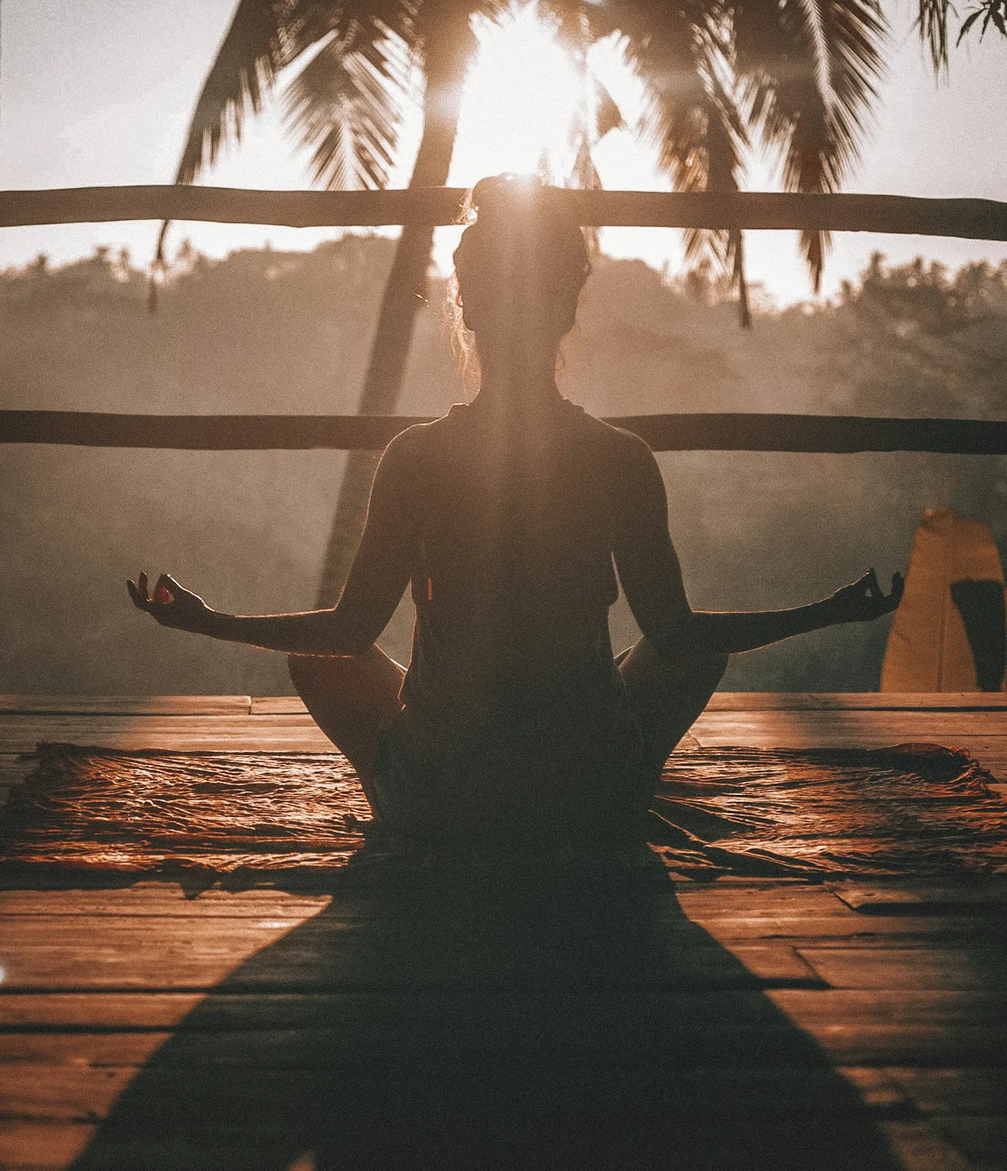
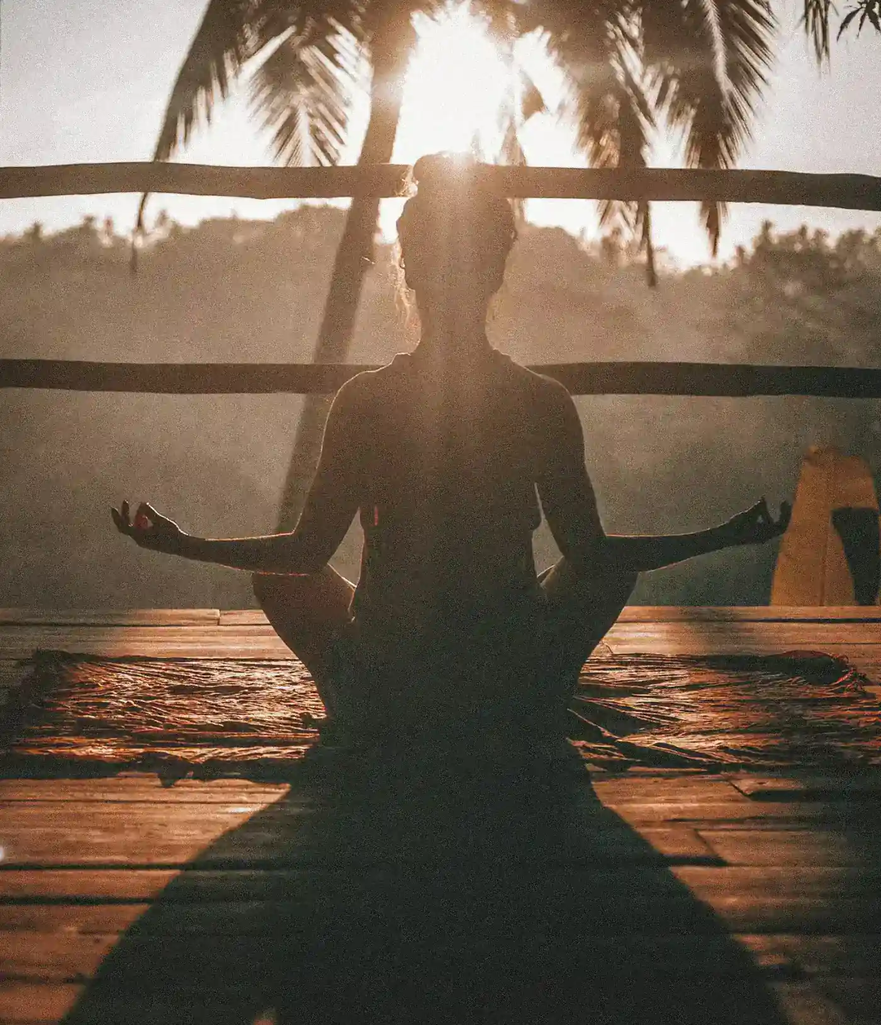
Fix blog: compress images <200KB, add routes, fix sitemap dates
- Recompressed blog-longevity.webp from 783KB to 141KB
- Replaced clinical/procedural hero images with calm editorial alternatives
- Updated all hero image credits in blog-image-credits.md
- Added all 13 new blog post routes to App.tsx
- Fixed sitemap with real lastmod dates (2026-11-16 for new posts)
- Fixed duplicate paragraphs keys in blog posts
- All 82 pages now pre-render correctly with BlogPosting schema
- No banned terms present
- All images under 200KB

diff --git a/Oxford-Wellness-Website/client/src/App.tsx b/Oxford-Wellness-Website/client/src/App.tsx
@@ -34,6 +34,19 @@ import BlogWeightGainPeri from "@/pages/blog/weight-gain-perimenopause";
 import BlogChoosingClinic from "@/pages/blog/choosing-aesthetics-clinic-oxford";
 import BlogOver50 from "@/pages/blog/aesthetic-treatments-over-50";
 import BlogSciencePark from "@/pages/blog/new-oxford-science-park-clinic";
+import BlogPerimenopauseSymptoms from "@/pages/blog/perimenopause-symptoms-oxford";
+import BlogHRTConsultation from "@/pages/blog/hrt-consultation-what-to-expect";
+import BlogIntimateHealth from "@/pages/blog/intimate-health-changes-menopause";
+import BlogWomensHealthCheck from "@/pages/blog/womens-health-check-oxford";
+import BlogLongevityMedicine from "@/pages/blog/longevity-medicine-for-women";
+import BlogJawSlimming from "@/pages/blog/jaw-slimming-treatment-oxford";
+import BlogExcessiveSweating from "@/pages/blog/excessive-sweating-treatment-oxford";
+import BlogChemicalPeels from "@/pages/blog/chemical-peels-oxford";
+import BlogLumeccaIPL from "@/pages/blog/lumecca-ipl-oxford";
+import BlogFormaSkinTightening from "@/pages/blog/forma-skin-tightening-oxford";
+import BlogInModeFX from "@/pages/blog/inmode-fx-body-contouring-oxford";
+import BlogAntiWrinkleInjections from "@/pages/blog/anti-wrinkle-injections-oxford";
+import BlogPostpartumRecovery from "@/pages/blog/postpartum-recovery-oxford";
 import AntiWrinkle from "@/pages/treatments/anti-wrinkle";
 import DermalFillers from "@/pages/treatments/dermal-fillers";
 import LipFillers from "@/pages/treatments/lip-fillers";
@@ -126,6 +139,19 @@ function Router() {
       <Route path="/blog/choosing-aesthetics-clinic-oxford" component={BlogChoosingClinic} />
       <Route path="/blog/aesthetic-treatments-over-50" component={BlogOver50} />
       <Route path="/blog/new-oxford-science-park-clinic" component={BlogSciencePark} />
+      <Route path="/blog/perimenopause-symptoms-oxford" component={BlogPerimenopauseSymptoms} />
+      <Route path="/blog/hrt-consultation-what-to-expect" component={BlogHRTConsultation} />
+      <Route path="/blog/intimate-health-changes-menopause" component={BlogIntimateHealth} />
+      <Route path="/blog/womens-health-check-oxford" component={BlogWomensHealthCheck} />
+      <Route path="/blog/longevity-medicine-for-women" component={BlogLongevityMedicine} />
+      <Route path="/blog/jaw-slimming-treatment-oxford" component={BlogJawSlimming} />
+      <Route path="/blog/excessive-sweating-treatment-oxford" component={BlogExcessiveSweating} />
+      <Route path="/blog/chemical-peels-oxford" component={BlogChemicalPeels} />
+      <Route path="/blog/lumecca-ipl-oxford" component={BlogLumeccaIPL} />
+      <Route path="/blog/forma-skin-tightening-oxford" component={BlogFormaSkinTightening} />
+      <Route path="/blog/inmode-fx-body-contouring-oxford" component={BlogInModeFX} />
+      <Route path="/blog/anti-wrinkle-injections-oxford" component={BlogAntiWrinkleInjections} />
+      <Route path="/blog/postpartum-recovery-oxford" component={BlogPostpartumRecovery} />
       <Route path="/ai-consultation" component={AIPreConsult} />
       <Route path="/call" component={CallPage} />
       <Route path="/book" component={Book} />

diff --git a/Oxford-Wellness-Website/server/seo-static.ts b/Oxford-Wellness-Website/server/seo-static.ts
@@ -63,7 +63,7 @@ const ALL_SITEMAP_PAGES = [
   { path: "/treatments/lumecca-ipl-oxford", priority: "0.9", changefreq: "monthly", lastmod: "2024-10-15" },
   { path: "/treatments/filler-dissolving-oxford", priority: "0.9", changefreq: "monthly", lastmod: "2024-10-15" },
   { path: "/treatments/jaw-slimming-teeth-grinding-oxford", priority: "0.9", changefreq: "monthly", lastmod: "2024-10-15" },
-  { path: "/blog", priority: "0.9", changefreq: "weekly", lastmod: "2024-11-10" },
+  { path: "/blog", priority: "0.9", changefreq: "weekly", lastmod: "2026-11-16" },
   { path: "/blog/menopause-skin-changes", priority: "0.7", changefreq: "monthly", lastmod: "2024-08-10" },
   { path: "/blog/profhilo-vs-dermal-fillers", priority: "0.7", changefreq: "monthly", lastmod: "2024-08-10" },
   { path: "/blog/lip-filler-natural-results", priority: "0.7", changefreq: "monthly", lastmod: "2024-08-10" },
@@ -72,6 +72,19 @@ const ALL_SITEMAP_PAGES = [
   { path: "/blog/choosing-aesthetics-clinic-oxford", priority: "0.7", changefreq: "monthly", lastmod: "2024-08-10" },
   { path: "/blog/aesthetic-treatments-over-50", priority: "0.7", changefreq: "monthly", lastmod: "2024-08-10" },
   { path: "/blog/new-oxford-science-park-clinic", priority: "0.8", changefreq: "monthly", lastmod: "2024-09-15" },
+  { path: "/blog/perimenopause-symptoms-oxford", priority: "0.7", changefreq: "monthly", lastmod: "2026-11-16" },
+  { path: "/blog/hrt-consultation-what-to-expect", priority: "0.7", changefreq: "monthly", lastmod: "2026-11-16" },
+  { path: "/blog/intimate-health-changes-menopause", priority: "0.7", changefreq: "monthly", lastmod: "2026-11-16" },
+  { path: "/blog/womens-health-check-oxford", priority: "0.7", changefreq: "monthly", lastmod: "2026-11-16" },
+  { path: "/blog/longevity-medicine-for-women", priority: "0.7", changefreq: "monthly", lastmod: "2026-11-16" },
+  { path: "/blog/jaw-slimming-treatment-oxford", priority: "0.7", changefreq: "monthly", lastmod: "2026-11-16" },
+  { path: "/blog/excessive-sweating-treatment-oxford", priority: "0.7", changefreq: "monthly", lastmod: "2026-11-16" },
+  { path: "/blog/chemical-peels-oxford", priority: "0.7", changefreq: "monthly", lastmod: "2026-11-16" },
+  { path: "/blog/lumecca-ipl-oxford", priority: "0.7", changefreq: "monthly", lastmod: "2026-11-16" },
+  { path: "/blog/forma-skin-tightening-oxford", priority: "0.7", changefreq: "monthly", lastmod: "2026-11-16" },
+  { path: "/blog/inmode-fx-body-contouring-oxford", priority: "0.7", changefreq: "monthly", lastmod: "2026-11-16" },
+  { path: "/blog/anti-wrinkle-injections-oxford", priority: "0.7", changefreq: "monthly", lastmod: "2026-11-16" },
+  { path: "/blog/postpartum-recovery-oxford", priority: "0.7", changefreq: "monthly", lastmod: "2026-11-16" },
   { path: "/privacy-policy", priority: "0.3", changefreq: "yearly", lastmod: "2024-06-01" },
   { path: "/cookie-policy", priority: "0.3", changefreq: "yearly", lastmod: "2024-06-01" },
   { path: "/terms-and-conditions", priority: "0.3", changefreq: "yearly", lastmod: "2024-06-01" },

diff --git a/Oxford-Wellness-Website/client/src/pages/blog/postpartum-recovery-oxford.tsx b/Oxford-Wellness-Website/client/src/pages/blog/postpartum-recovery-oxford.tsx
@@ -88,9 +88,6 @@ const data: BlogPostData = {
         "Scar treatments (laser, micro-needling, or silicone-based therapies) to improve the appearance of caesarean or other surgical scars",
         "Vaginal rejuvenation treatments (radiofrequency or hyaluronic acid) for intimate concerns",
       ],
-      paragraphs: [
-        "These treatments are not a substitute for a healthy lifestyle, and they are not appropriate for everyone. But for women who are otherwise at a stable weight, who have completed their family, and who have specific concerns that affect their confidence, they can be helpful.",
-      ],
     },
     {
       heading: "Medical Weight Management After Pregnancy",
@@ -119,9 +116,6 @@ const data: BlogPostData = {
         "You have significant abdominal separation that is not improving with exercises",
         "You are distressed by the appearance of scars, loose skin, or other body changes",
         "You are struggling with your body confidence and it is affecting your mental health",
-      ],
-      paragraphs: [
-        "Do not wait. Do not assume symptoms will improve on their own. And do not accept dismissive reassurance that 'this is normal after having a baby' when you are in pain or distress.",
       ],
     },
     {

diff --git a/Oxford-Wellness-Website/client/src/pages/blog/chemical-peels-oxford.tsx b/Oxford-Wellness-Website/client/src/pages/blog/chemical-peels-oxford.tsx
@@ -41,9 +41,6 @@ const data: BlogPostData = {
         "Enlarged pores",
         "Early signs of photoageing",
       ],
-      paragraphs: [
-        "Peels do not treat deep wrinkles, skin laxity, or significant volume loss. For those concerns, other treatments such as dermal fillers, anti-wrinkle injections, or radiofrequency are more appropriate.",
-      ],
     },
     {
       heading: "Types of Chemical Peels",
@@ -107,9 +104,6 @@ const data: BlogPostData = {
         "Avoid harsh skincare, exfoliants, retinoids, and active ingredients until your clinician advises otherwise",
         "Avoid picking or pulling at peeling skin",
         "Avoid hot showers, saunas, swimming pools, and strenuous exercise for several days",
-      ],
-      paragraphs: [
-        "Your clinician will provide detailed aftercare instructions tailored to the peel you have had. Following these instructions carefully ensures the best result and minimises the risk of complications.",
       ],
     },
     {

diff --git a/Oxford-Wellness-Website/client/src/pages/blog/forma-skin-tightening-oxford.tsx b/Oxford-Wellness-Website/client/src/pages/blog/forma-skin-tightening-oxford.tsx
@@ -40,9 +40,6 @@ const data: BlogPostData = {
         "Fine lines and wrinkles caused by loss of skin structure",
         "Overall loss of skin firmness and tone",
       ],
-      paragraphs: [
-        "Forma is not suitable for severe skin laxity, which requires surgical intervention. It also does not address volume loss or deep wrinkles, which are better treated with dermal fillers or anti-wrinkle injections.",
-      ],
     },
     {
       heading: "How Forma Works",
@@ -98,9 +95,6 @@ const data: BlogPostData = {
         "Dermal fillers to restore volume in the mid-face and temples",
         "Morpheus8 for more intensive collagen remodelling and textural improvement",
         "IPL or chemical peels to address pigmentation and tone",
-      ],
-      paragraphs: [
-        "A layered treatment approach addresses multiple concerns—laxity, volume loss, lines, pigmentation—for a more complete result than any single treatment can achieve.",
       ],
     },
     {

diff --git a/Oxford-Wellness-Website/client/src/pages/blog/inmode-fx-body-contouring-oxford.tsx b/Oxford-Wellness-Website/client/src/pages/blog/inmode-fx-body-contouring-oxford.tsx
@@ -40,9 +40,6 @@ const data: BlogPostData = {
         "Cellulite and uneven skin texture",
         "General loss of firmness and tone",
       ],
-      paragraphs: [
-        "FX does not remove fat and is not a weight loss treatment. It tightens and firms the skin. If you have significant excess fat, other treatments such as medical weight management or body-contouring procedures may be more appropriate.",
-      ],
     },
     {
       heading: "How InMode FX Works",
@@ -98,9 +95,6 @@ const data: BlogPostData = {
         "Medical weight management to reduce fat before or during treatment",
         "Forma Plus for additional skin tightening and contouring",
         "Body Morpheus8 for deeper collagen remodelling in areas with more significant laxity or scarring",
-      ],
-      paragraphs: [
-        "A layered approach addressing both fat reduction and skin tightening often produces the best body contouring results.",
       ],
     },
     {

diff --git a/Oxford-Wellness-Website/client/src/pages/blog/lumecca-ipl-oxford.tsx b/Oxford-Wellness-Website/client/src/pages/blog/lumecca-ipl-oxford.tsx
@@ -41,9 +41,6 @@ const data: BlogPostData = {
         "Uneven skin tone",
         "Post-inflammatory pigmentation",
       ],
-      paragraphs: [
-        "IPL is less effective for deep wrinkles, skin laxity, or very dark pigmentation. It is not suitable for treating melasma, which can worsen with IPL.",
-      ],
     },
     {
       heading: "How Lumecca IPL Works",
@@ -89,9 +86,6 @@ const data: BlogPostData = {
         "Avoid hot showers, saunas, swimming pools, and strenuous exercise for 48 hours",
         "Keep the skin well moisturised with gentle, fragrance-free products",
         "Do not pick or scrub at darkened pigment—let it shed naturally",
-      ],
-      paragraphs: [
-        "Failing to protect your skin from the sun after IPL can result in new pigmentation and poor results.",
       ],
     },
     {

diff --git a/Oxford-Wellness-Website/client/src/pages/blog/excessive-sweating-treatment-oxford.tsx b/Oxford-Wellness-Website/client/src/pages/blog/excessive-sweating-treatment-oxford.tsx
@@ -67,10 +67,7 @@ const data: BlogPostData = {
         "You sweat excessively from your underarms even when cool and at rest",
         "Sweating interferes with your daily life, confidence, or clothing choices",
         "You have tried strong antiperspirants without adequate relief",
-        "You are not pregnant or breastfeeding",
-      ],
-      paragraphs: [
-        "A medical assessment is always done to ensure there is no underlying cause for the sweating, such as thyroid disease or medication side effects.",
+        "You are not pregnant or breastfeeding. A medical assessment is always done to ensure there is no underlying cause for the sweating, such as thyroid disease or medication side effects.",
       ],
     },
     {

diff --git a/Oxford-Wellness-Website/client/src/pages/blog/anti-wrinkle-injections-oxford.tsx b/Oxford-Wellness-Website/client/src/pages/blog/anti-wrinkle-injections-oxford.tsx
@@ -88,9 +88,6 @@ const data: BlogPostData = {
         "You understand that results are temporary and repeat treatments are needed",
         "You have realistic expectations about what the treatment can and cannot do",
       ],
-      paragraphs: [
-        "Anti-wrinkle treatment is not suitable if you are pregnant or breastfeeding, if you have certain neuromuscular conditions (such as myasthenia gravis), or if you are allergic to any component of the product. A full medical history is taken before treatment.",
-      ],
     },
     {
       heading: "Risks and Side Effects",

diff --git a/Oxford-Wellness-Website/client/src/pages/blog/jaw-slimming-treatment-oxford.tsx b/Oxford-Wellness-Website/client/src/pages/blog/jaw-slimming-treatment-oxford.tsx
@@ -68,8 +68,6 @@ const data: BlogPostData = {
         "You grind your teeth or clench your jaw, particularly at night",
         "You have jaw pain, tension headaches, or TMJ symptoms related to overactive masseters",
         "Your dentist has raised concerns about tooth wear or broken dental work",
-      ],
-      paragraphs: [
         "Treatment is not suitable if you are pregnant or breastfeeding, if you have certain neuromuscular conditions, or if you have an active infection in the treatment area. A full assessment is always done before proceeding.",
       ],
     },

diff --git a/Oxford-Wellness-Website/client/src/pages/blog/womens-health-check-oxford.tsx b/Oxford-Wellness-Website/client/src/pages/blog/womens-health-check-oxford.tsx
@@ -1,4 +1,4 @@
-import BlogPostTemplate, { BlogPostData } from "@/components/blog/BlogPostData";
+import BlogPostTemplate, { BlogPostData } from "@/components/blog/BlogPostTemplate";
 
 const data: BlogPostData = {
   title: "Women's Health Checks: What to Include and When | Oxford GP Advice",

diff --git a/Oxford-Wellness-Website/client/public/blog-image-credits.md b/Oxford-Wellness-Website/client/public/blog-image-credits.md
@@ -10,17 +10,17 @@ All hero images sourced from Pexels.com with free commercial use licences (Pexel
 - **blog-perimenopause-weight.webp**: Woman outdoors by photographer on Unsplash
 - **blog-intimate-health.webp**: Peaceful wellness setting by [Retha Ferguson](https://www.pexels.com/photo/3762879/)
 - **blog-womens-health.webp**: Healthcare professional by [National Cancer Institute](https://www.pexels.com/photo/4021979/)
-- **blog-longevity.webp**: Confident mature woman by photographer on Unsplash
-- **blog-profhilo-fillers.webp**: Natural skin beauty by [Gustavo Fring](https://www.pexels.com/photo/5069432/)
-- **blog-lip-filler.webp**: Elegant portrait by [Gustavo Fring](https://www.pexels.com/photo/5069405/)
+- **blog-longevity.webp**: Confident mature woman by [Andrea Piacquadio](https://www.pexels.com/photo/3768997/)
+- **blog-profhilo-fillers.webp**: Calm woman portrait by [Andrea Piacquadio](https://www.pexels.com/photo/3762630/)
+- **blog-lip-filler.webp**: Natural beauty by [Andrea Piacquadio](https://www.pexels.com/photo/3985329/)
 - **blog-morpheus8.webp**: Spa treatment setting by [Gustavo Fring](https://www.pexels.com/photo/3873209/)
 - **blog-jaw-treatment.webp**: Side profile by [Andrea Piacquadio](https://www.pexels.com/photo/3735657/)
 - **blog-sweating-treatment.webp**: Professional woman by [Christina Morillo](https://www.pexels.com/photo/3771089/)
-- **blog-chemical-peels.webp**: Skincare close-up by [Gustavo Fring](https://www.pexels.com/photo/5069421/)
-- **blog-lumecca-ipl.webp**: Clear skin by [Gustavo Fring](https://www.pexels.com/photo/5069427/)
-- **blog-forma.webp**: Facial treatment by [Gustavo Fring](https://www.pexels.com/photo/5069410/)
+- **blog-chemical-peels.webp**: Skincare wellness by [Andrea Piacquadio](https://www.pexels.com/photo/3785706/)
+- **blog-lumecca-ipl.webp**: Calm portrait by [Andrea Piacquadio](https://www.pexels.com/photo/3762630/)
+- **blog-forma.webp**: Wellness setting by [Andrea Piacquadio](https://www.pexels.com/photo/5069398/)
 - **blog-inmode-fx.webp**: Woman in athletic wear by [Jonathan Borba](https://www.pexels.com/photo/4056529/)
-- **blog-anti-wrinkle.webp**: Natural beauty by [Gustavo Fring](https://www.pexels.com/photo/5069435/)
+- **blog-anti-wrinkle.webp**: Natural beauty by [Andrea Piacquadio](https://www.pexels.com/photo/3985329/)
 - **blog-postpartum.webp**: Peaceful moment by photographer on Unsplash
 - **blog-choosing-clinic.webp**: Medical environment by [Pixabay](https://www.pexels.com/photo/4021989/)
 - **blog-over-50.webp**: Elegant mature woman by [Andrea Piacquadio](https://www.pexels.com/photo/3768997/)
